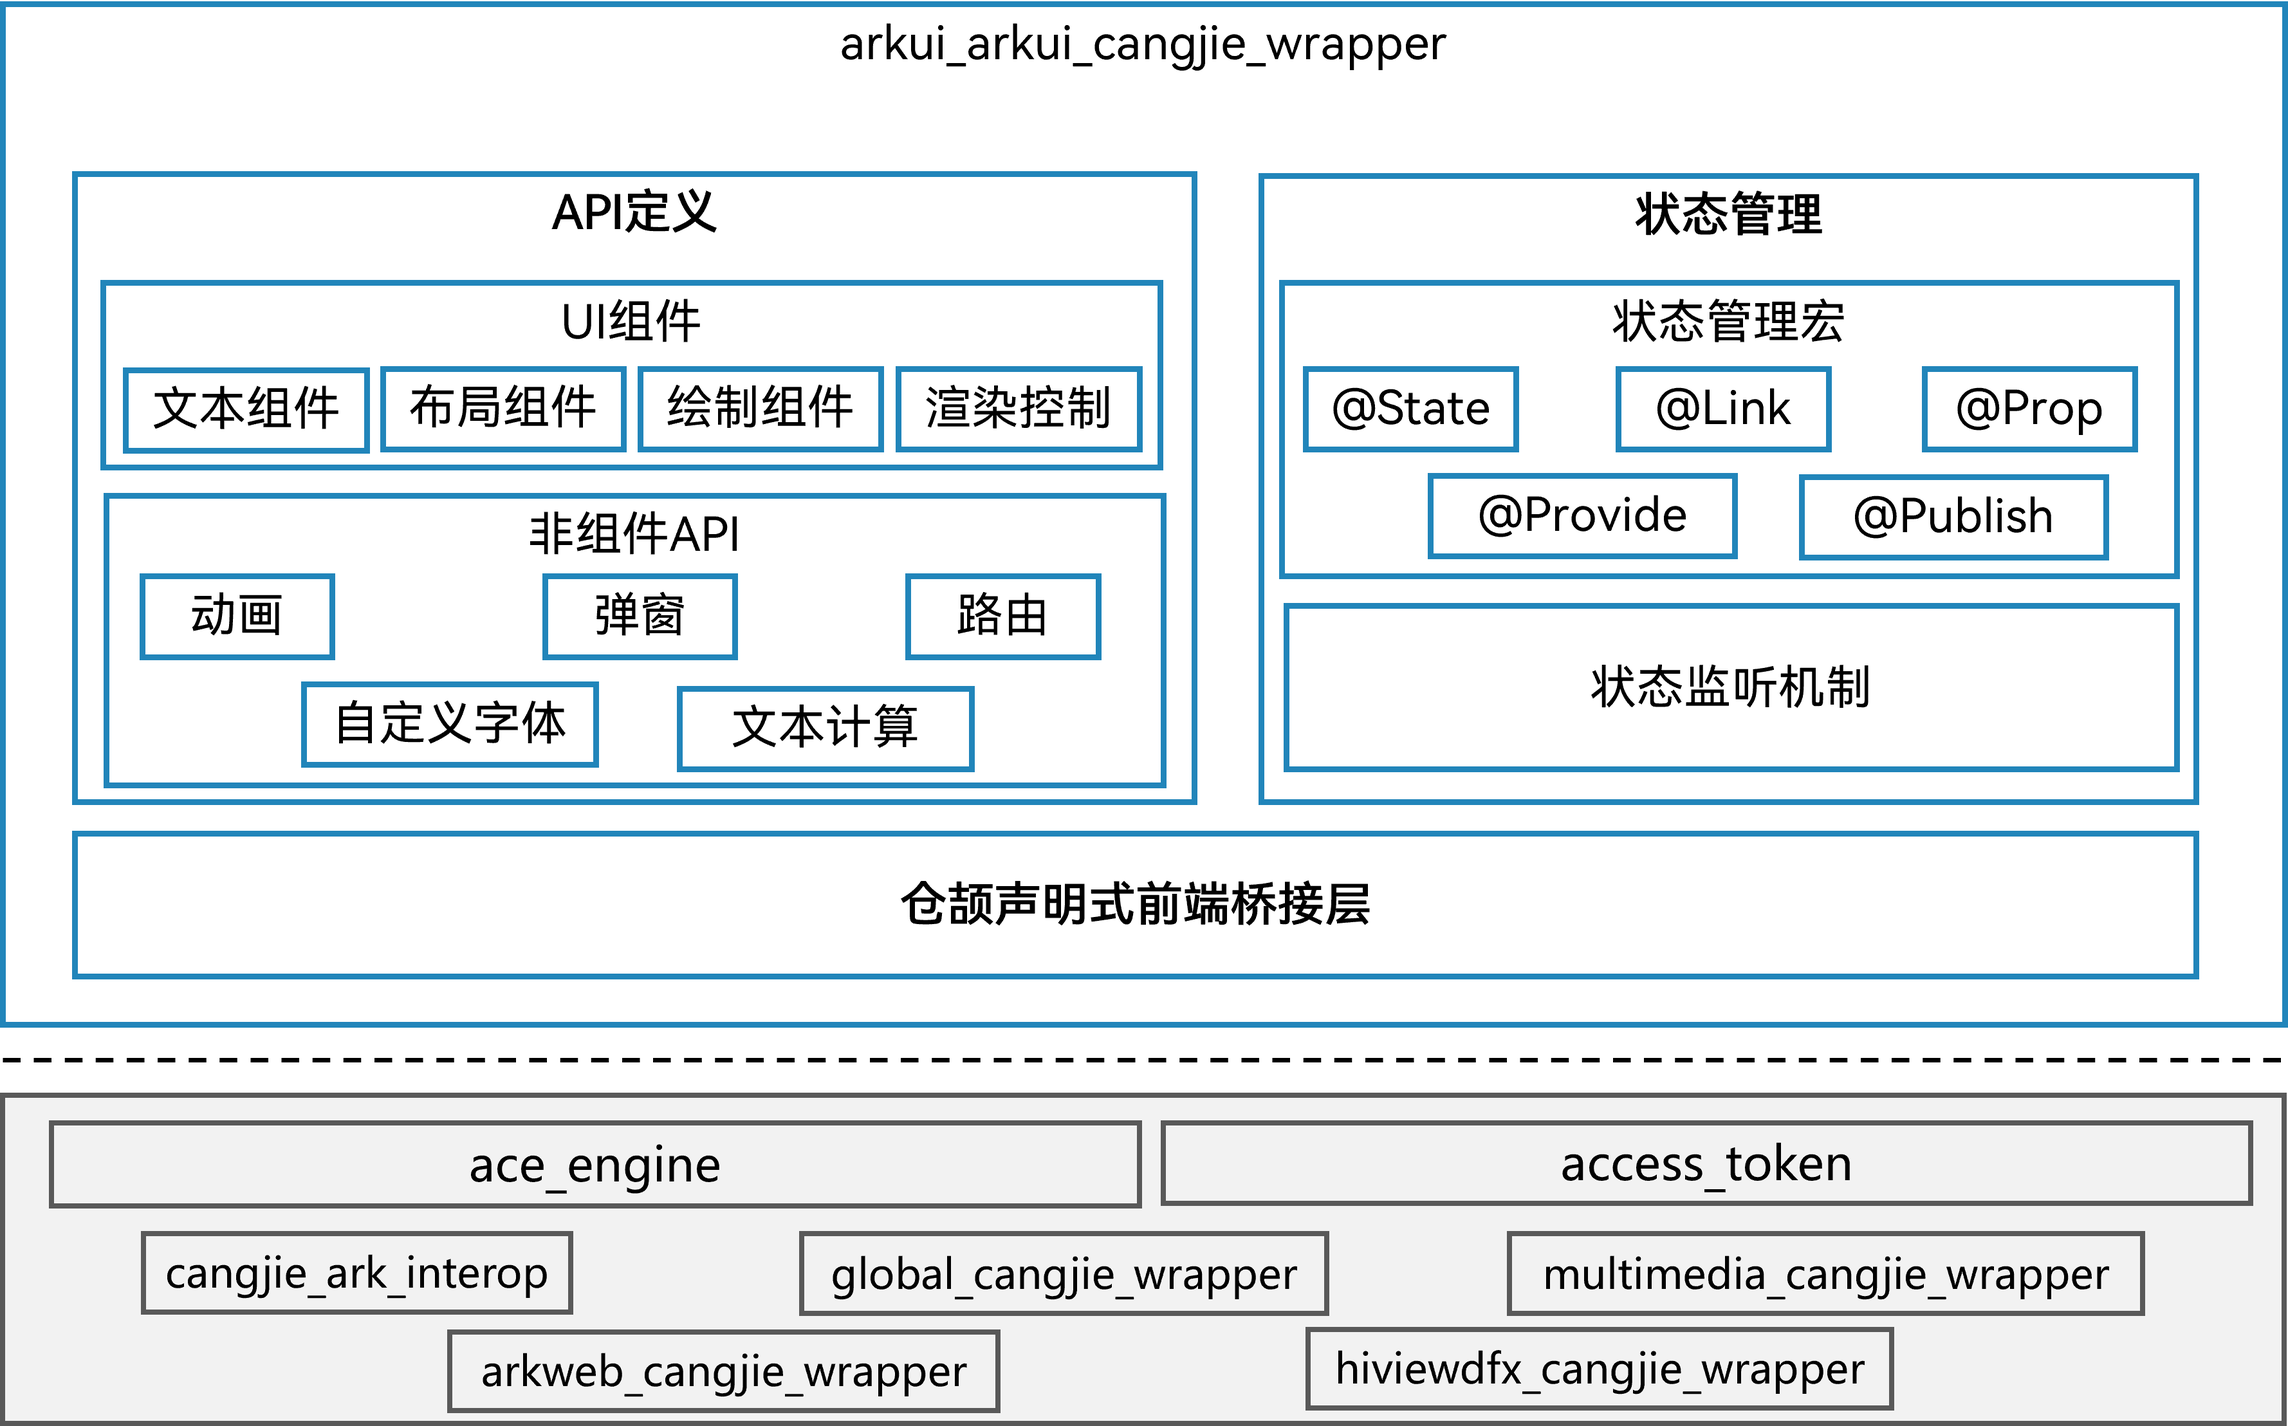
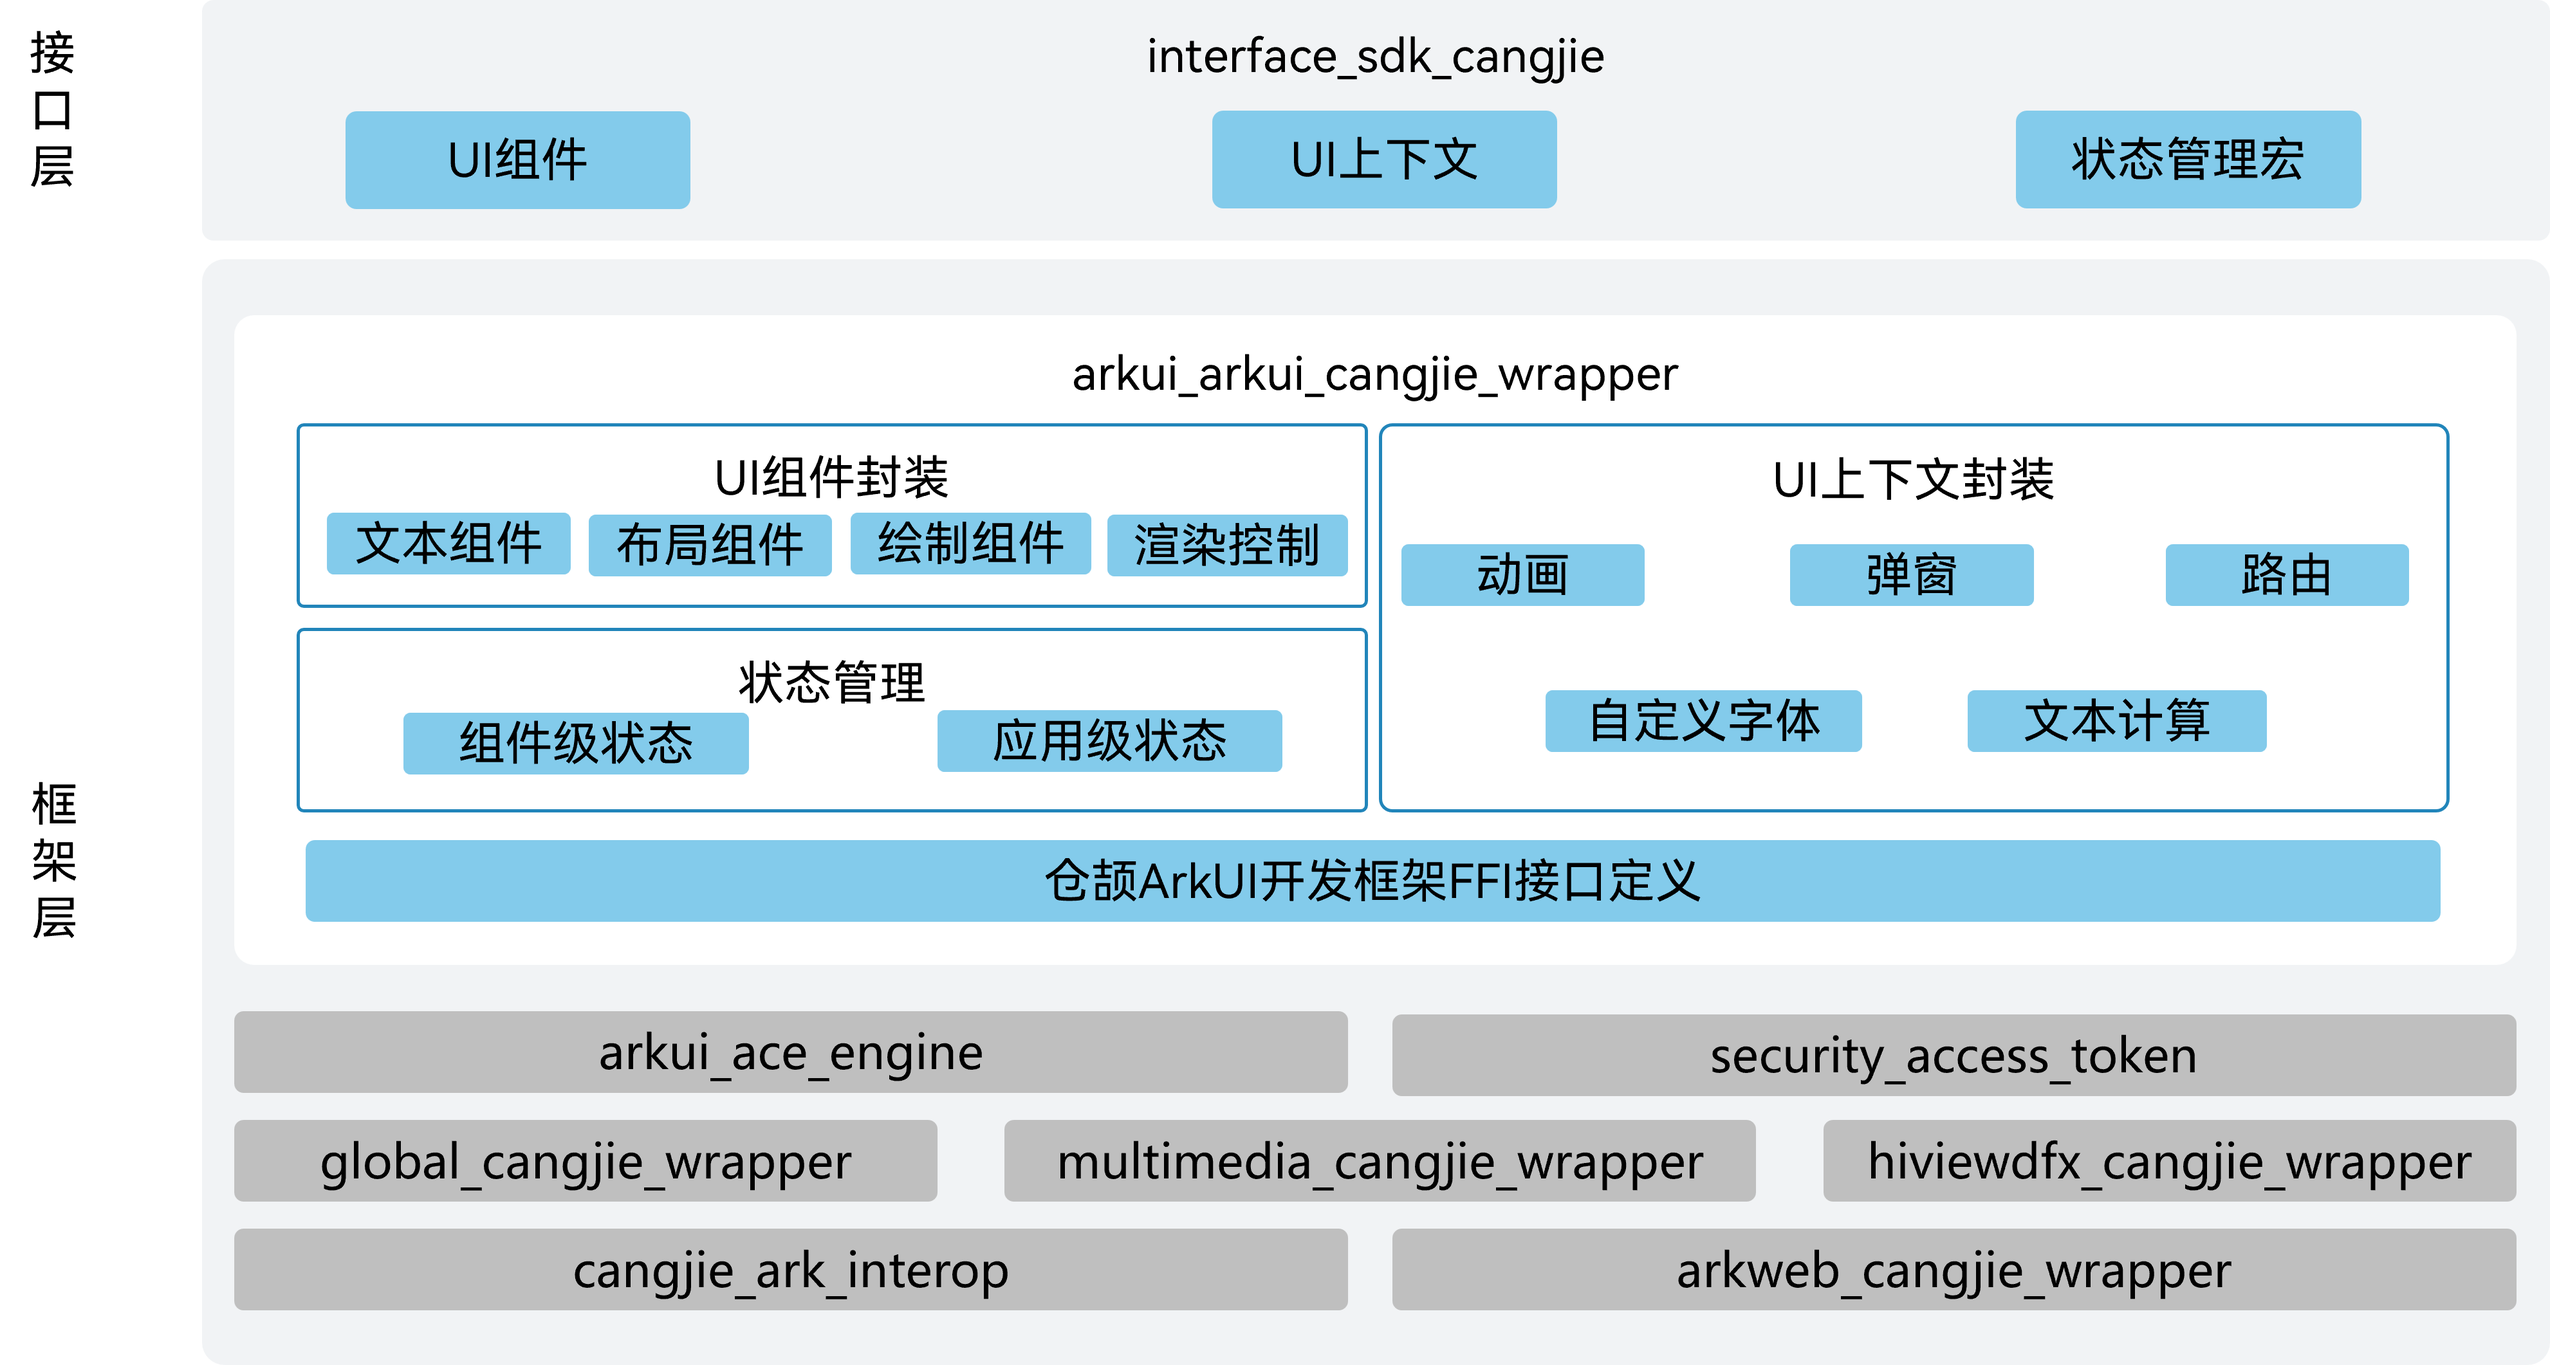
fix review comments

diff --git a/README_zh.md b/README_zh.md
@@ -1,36 +1,48 @@
 # ArkUI开发框架仓颉接口<a name="ZH-CN_TOPIC_0000001076213364"></a>
 
--   [简介](#section15701932113019)
--   [目录](#section1791423143211)
--   [使用说明](#section171384529150)
--   [开发者文档](#section171384529152)
--   [参与贡献](#section171384529153)
--   [相关仓](#section1447164910172)
-
 ## 简介<a name="section15701932113019"></a>
 
-ArkUI开发框架仓颉接口是在OpenHarmony上基于ArkUI开发框架封装的仓颉声明式UI框架，提供开发者进行应用UI开发时所必需的能力，包括状态管理、UI组件、动画、绘制、交互事件等。当前开放的ArkUI开发框架仓颉接口仅支持standard设备。
+ArkUI开发框架仓颉接口提供开发者使用仓颉语言进行应用UI开发时所必需的能力，包括状态管理、UI组件、动画、绘制、交互事件等。当前开放的ArkUI开发框架仓颉接口仅支持standard设备。
 
-其主要结构如下图所示：
+## 系统架构
+
+其主要架构如下图所示：
 
 ![仓颉ArkUI开发框架](./figures/arkui_arkui_cangjie_wrapper.png)
 
 如架构图所示：
 
-- UI组件API：提供内置基础组件，包括文本类组件，布局类组件，绘制类组件等，相关API请参考[UI组件](https://gitcode.com/openharmony-sig/arkcompiler_cangjie_ark_interop/blob/master/doc/Dev_Guide/summary_cjnative_ohos.md)。
-- 非UI组件API：提供UI界面控制相关能力，包括曲线插值计算，动画动效，自定义字体，页面路由等，相关API请参考[UI界面](https://gitcode.com/openharmony-sig/arkcompiler_cangjie_ark_interop/blob/master/doc/API_Reference/source_zh_cn/arkui-cj/cj-apis-curves.md)。
-- 状态管理：提供状态监听能力，包括状态变化驱动UI界面刷新，相关API请参考[状态管理](https://gitcode.com/openharmony-sig/arkcompiler_cangjie_ark_interop/blob/master/doc/API_Reference/source_zh_cn/arkui-cj/cj-state-rendering-componentstatemanagement.md)。
-- 前端桥接层：提供仓颉UI前端和ArkUI引擎层桥接的能力，包括基础组件以及自定义组件等的对接。
+接口层
+- UI组件：提供内置组件，包括文本组件，布局组件，绘制组件，渲染控制，开发者可以通过内置组件组合出所需的页面。
+- UI上下文：通过UI上下文可以使用曲线插值计算，动画动效，自定义字体，页面路由等能力。
+- 状态管理宏：使用状态管理宏，可以修饰开发者定义的变量。被修饰的变量值的改变会引起UI的渲染更新。
+
+框架层
+- UI组件封装：UI组件仓颉封装实现，包括
+  - 文本组件：文本组件通常涵盖用户输入的信息、呈现的文本内容以及小图标，这些元素共同构建了用户与系统间的交互界面，提升了操作的便捷性与信息展示的直观性。
+  - 布局组件：布局组件通常用于管理用户页面所放置UI组件的大小和位置，包括线性布局，层叠布局，弹性布局，相对布局，栅格布局。
+  - 绘制组件：绘制组件用于自定义绘制图形，开发者可以在Canvas组件上进行绘制，绘制对象可以是基础形状、文本、图片等。
+  - 渲染控制：渲染控制可以根据条件控制UI组件是否显示，包括条件渲染（if/else），循环渲染（ForEach），数据懒加载（LazyForEach）。
+- UI上下文封装：UI上下文封装实现，包括
+  - 动画：使用动画可以为UI变化添加过度场景。
+  - 弹窗：弹窗用于短时间内展示用户需关注的信息或待处理的操作。
+  - 路由：提供访问不同页面的能力，包括跳转到应用内的指定页面、同应用内的某个页面替换当前页面、返回上一页面或指定的页面等
+  - 自定义字体：提供注册自定义字体的能力
+  - 文本计算：提供文本宽度、高度等相关计算
+- 状态管理：状态管理宏的实现，包括
+  - 组件级状态：组件级别的状态管理，可以观察同一个页面的组件内或不同组件层级的变量变化。
+  - 应用级状态：应用级别的状态管理，可以观察不同页面，是应用内全局的状态管理。
+- 仓颉ArkUI开发框架FFI接口定义：负责定义C语言互操作仓颉接口，用于提供仓颉UI前端和ArkUI开发框架对接的能力，包括UI组件和UI上下文的对接。
 
 架构图中依赖部件引入说明：
 
-- ace_engine：arkui_cangjie_wrapper依赖ArkUI框架引擎提供的UI组件，动画，交互事件能力。
-- access_token：Web组件依赖访问控制部件提供的授权与鉴权能力。
-- cangjie_ark_interop：依赖仓颉互操作部件提供的APILevel能力进行API管理。
-- global_cangjie_wrapper：依赖全球化仓颉部件提供的资源管理仓颉接口。
-- multimedia_cangjie_wrapper：Image组件依赖多媒体仓颉部件提供的PixelMap接口。
-- arkweb_cangjie_wrapper：Web组件依赖Web仓颉部件提供的WebView接口。
-- hiviewdfx_cangjie_wrapper：依赖DFX仓颉部件提供的Hilog接口。
+- arkui_ace_engine：arkui_cangjie_wrapper依赖ArkUI开发框架提供的UI组件，动画，交互事件能力。
+- security_access_token：UI组件依赖访问控制部件提供的授权与鉴权能力。
+- cangjie_ark_interop：依赖cangjie_ark_interop提供的APILevel能力进行API管理。
+- global_cangjie_wrapper：依赖global_cangjie_wrapper提供的资源管理仓能力。
+- multimedia_cangjie_wrapper：Image组件依赖多媒体仓颉部件提供的图像处理能力。
+- arkweb_cangjie_wrapper：Web组件依赖arkweb_cangjie_wrapper提供的WebView控制能力。
+- hiviewdfx_cangjie_wrapper：依赖hiviewdfx_cangjie_wrapper提供的Hilog日志能力。
 
 ## 目录<a name="section1791423143211"></a>
 
@@ -65,7 +77,7 @@ foundation/arkui/arkui_cangjie_wrapper
 ArkUI开发框架仓颉接口提供了丰富的、功能强大的UI组件、样式定义，组件之间相互独立，随取随用，也可以在需求相同的地方重复使用。开发者还可以通过组件间合理的搭配定义满足业务需求的新组件，减少开发量。
 
 提供的能力范围包括：
-- 内置组件：通用事件，通用属性，容器类组件，绘制类组件
+- 内置组件：通用事件，通用属性，文本组件，布局组件，绘制组件，渲染控制
 - 自定义组件：自定义组件生命周期，组件嵌套组合
 - 状态管理：组件级变量状态管理，应用级变量状态管理
 
@@ -92,12 +104,16 @@ class EntryView {
 }
 ```
 
+## 约束
+
 与ArkTS相比，暂不支持以下功能：
+- 高级组件
+- 嵌入式组件：全屏启动原子化服务组件（FullScreenLaunchComponent），同应用进程嵌入式组件 (EmbeddedComponent)
 - 状态管理V2
 - 自定义节点能力：包括自定义组件节点(FrameNode)，自定义渲染节点(RenderNode)，自定义声明式节点(BuilderNode)，详细介绍请参考[自定义节点概述](https://docs.openharmony.cn/pages/v5.1/zh-cn/application-dev/ui/arkts-user-defined-node.md)
 - 自定义扩展能力：包括属性修改器(AttributeModifier)，属性更新器(AttributeUpdater)，详细介绍请参考[自定义扩展概述](https://docs.openharmony.cn/pages/v5.1/zh-cn/application-dev/ui/arkts-user-defined-modifier.md)
 
-## 开发者文档<a name="section171384529152"></a>
+## 参考文档<a name="section171384529152"></a>
 
 [API文档](https://gitcode.com/openharmony-sig/arkcompiler_cangjie_ark_interop/blob/master/doc/API_Reference/summary_cjnative_ohos.md)
 

diff --git a/README.md b/README.md
@@ -1,15 +1,10 @@
 # ArkUI Framework Cangjie Interface<a name="EN-US_TOPIC_0000001076213364"></a>
 
--   [Introduction](#section15701932113019)
--   [Directory Structure](#section1791423143211)
--   [When to Use](#section171384529150)
--   [Developer Document](#section171384529152)
--   [How to Contribute](#section171384529153)
--   [Repositories Involved](#section1447164910172)
-
 ## Introduction<a name="section15701932113019"></a>
 
 The ArkUI Framework Cangjie Interface provides basic, container, and canvas UI components capabilities, include State Management, UI Components, Animation, Rendering, Events etc. ArkUI Framework Cangjie Interface is only available for standard devices.
+
+## System Architecture
 
 Framework architecture:
 
@@ -17,15 +12,50 @@ Framework architecture:
 
 As shown in the architecture:
 
-- UI Component API: provide basic components, include Text & Input, Layout, Canvas ets, please refer to [UI component](https://gitcode.com/openharmony-sig/arkcompiler_cangjie_ark_interop/blob/master/doc/Dev_Guide/summary_cjnative_ohos_EN.md).
-- UI Control API: provide UI control capabilities, include curves, animator, custom font, router etc, please refer to [UI Control](https://gitcode.com/openharmony-sig/arkcompiler_cangjie_ark_interop/blob/master/doc/API_Reference/source_en/arkui-cj/cj-universal-event-mouse.md).
-- StateManagment: provide state subscribe mechanism, include states change drive UI update, please refer to [StateManage](https://gitcode.com/openharmony-sig/arkcompiler_cangjie_ark_interop/blob/master/doc/API_Reference/source_zh_cn/arkui-cj/cj-state-rendering-componentstatemanagement.md).
-- Declarative Frontend Bridge Layer：provide Bridge Layer for interact between Cangjie Declarative Frontend and ArkUI Engine.
+Interface Layer
+
+- UI Components: Provides built-in components, including text components, layout components, drawing components, and rendering control components. Developers can combine these built-in components to create desired pages.
+
+- UI Context: Through the UI context, capabilities such as curve interpolation calculations, animations and motion effects, custom fonts, and page routing can be utilized.
+
+- State Management Macros: Using state management macros allows developers to decorate variables they define. Changes to the values of these decorated variables will trigger re-rendering of the UI.
+
+Framework Layer
+
+- UI Component Encapsulation: Implementation of UI component encapsulation by Cangjie, including:
+
+  - Text Components: Text components typically encompass user input information, displayed text content, and small icons. These elements collectively build the interactive interface between the user and the system, enhancing operational convenience and the intuitiveness of information display.
+
+  - Layout Components: Layout components are typically used to manage the size and position of UI components placed on a user page. These include linear layout, stacked layout, flexible layout, relative layout, and grid layout.
+
+  - Drawing Components: Drawing components are used for custom graphic drawing. Developers can draw on the Canvas component, with drawable objects including basic shapes, text, and images.
+
+  - endering Control: Rendering control allows conditional control over whether UI components are displayed. This includes conditional rendering (if/else), loop rendering (ForEach), and lazy data loading (LazyForEach).
+
+- UI Context Encapsulation: Implementation of UI context encapsulation, including:
+
+  - Animation: Using animations can add transition scenarios to UI changes.
+
+  - Dialog: Dialog are used to briefly display information requiring user attention or actions to be processed.
+
+  - Route: Provides the ability to access different pages, including navigating to a specified page within the app, replacing the current page with another page in the same app, returning to the previous page or a specified page, etc.
+
+  - Custom Fonts: Provides the ability to register custom fonts.
+
+  - Measure: Provides calculations related to text width, height, etc.
+
+- State Management: Implementation of state management macros, including:
+
+  - Component-Level State: Manages state at the component level, allowing observation of variable changes within the same component or across different component hierarchies on the same page.
+
+  - Application-Level State: Manages state at the application level, allowing observation across different pages; it is global state management within the application.
+
+- Cangjie ArkUI Development Framework FFI Interface Definitions: Responsible for defining the C language interoperability interfaces for Cangjie, used to provide the capability for the Cangjie UI frontend to interface with the ArkUI development framework. This includes interfacing for both UI components and the UI context.
 
 Dependency Components Introduction in Architecture:
 
 - ace_engine: arkui_cangjie_wrapper relies on the UI components, animations, and interactive event capabilities provided by the ArkUI framework engine.
-- access_token: Web component relies on the authorization and authentication capabilities provided by the access control module.
+- access_token: UI component relies on the authorization and authentication capabilities provided by the access control module.
 - cangjie_ark_interop: API management is facilitated by the API Level capability offered by cangjie_ark_interop.
 - global_cangjie_wrapper: relies on the resource management capability of global_cangjie_wrapper.
 - multimedia_cangjie_wrapper: The PixelMap interface, provided by multimedia_cangjie_wrapper, is utilized by Image component.
@@ -92,7 +122,11 @@ class EntryView {
 }
 ```
 
+## Limitation
+
 Compared to ArkTS, the following features are not supported yet:
+- Advanced Component
+- Embedded Component
 - State Management V2
 - Custom Node capabilities: include FrameNode，RenderNode, BuildNode, pelease refer to [Custom Node Overview](https://docs.openharmony.cn/pages/v5.1/en/application-dev/ui/arkts-user-defined-node.md)
 - Custom Extend capabilities: includ AttributeModifier, AttributeUpdater, pelease refer to [Custom Extend Overview](https://docs.openharmony.cn/pages/v5.1/en/application-dev/ui/arkts-user-defined-modifier.md)
